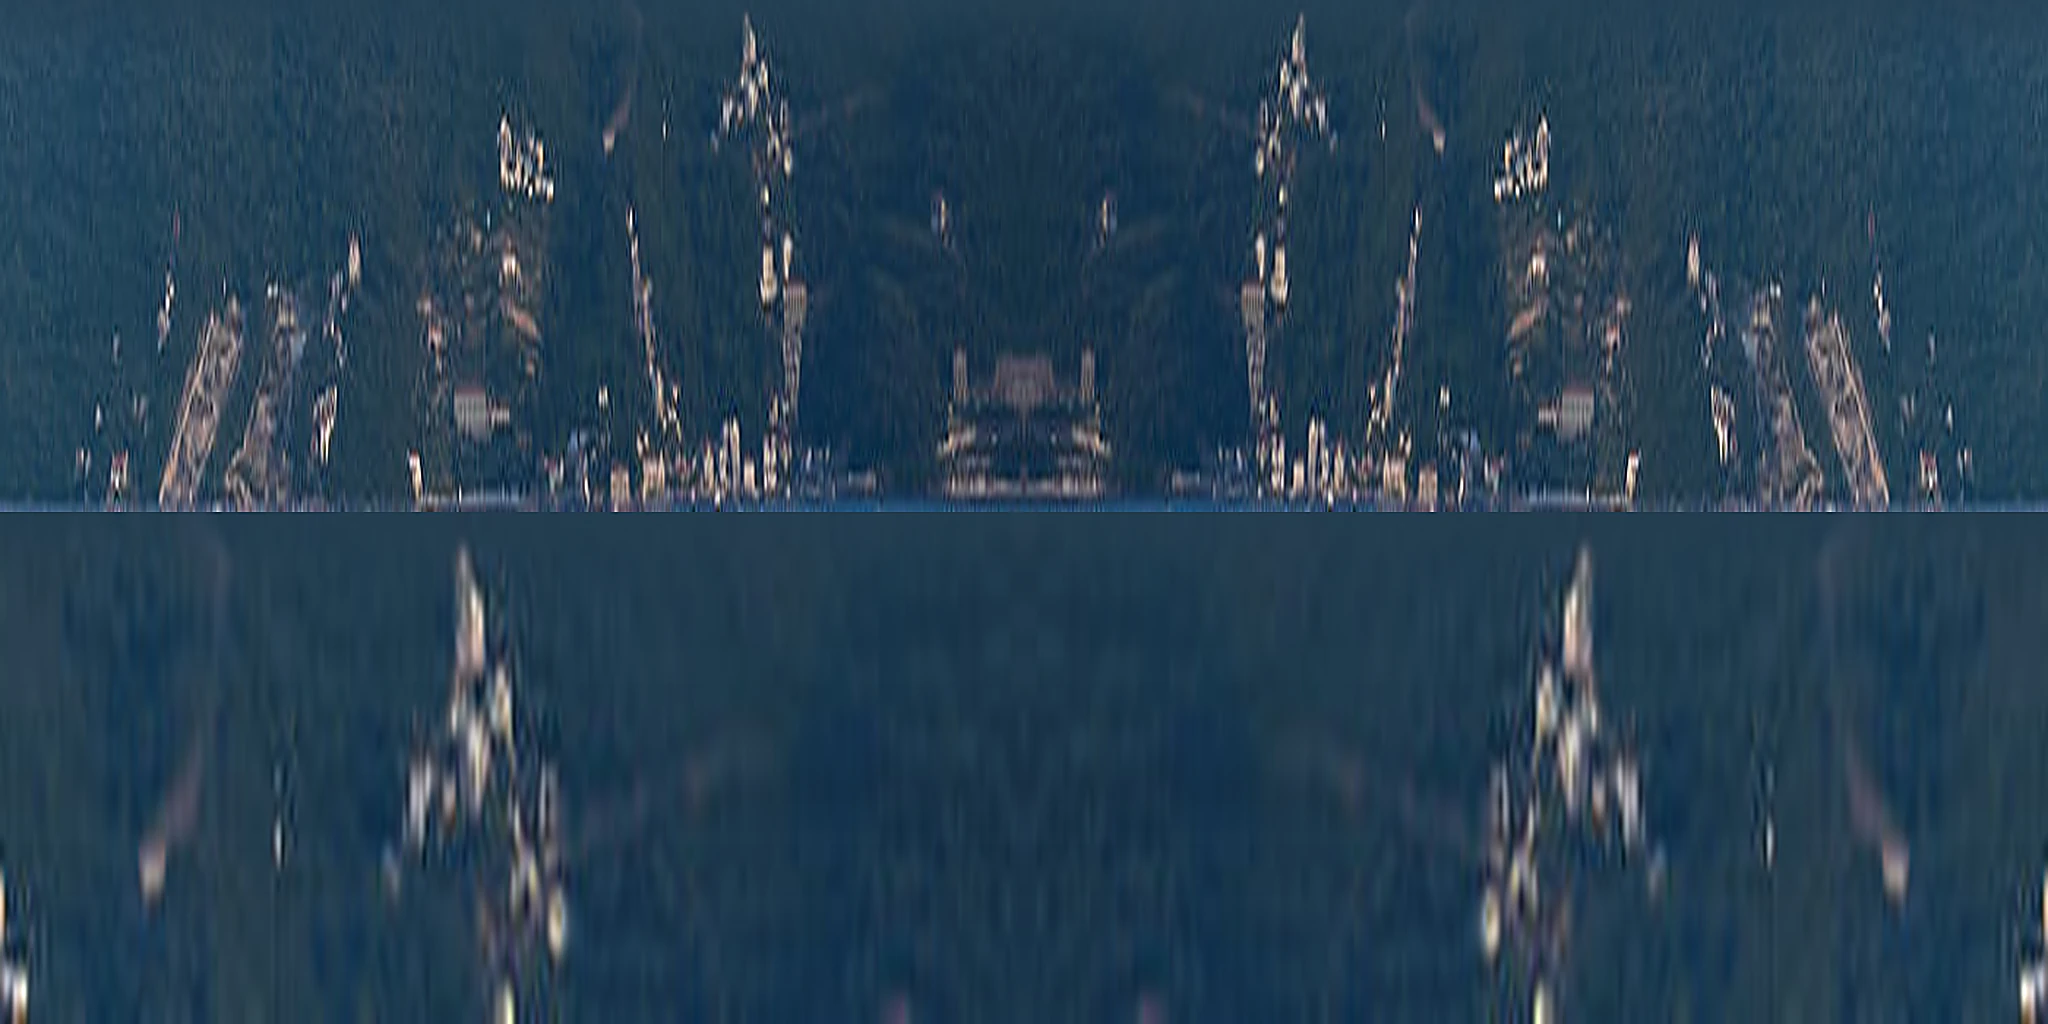
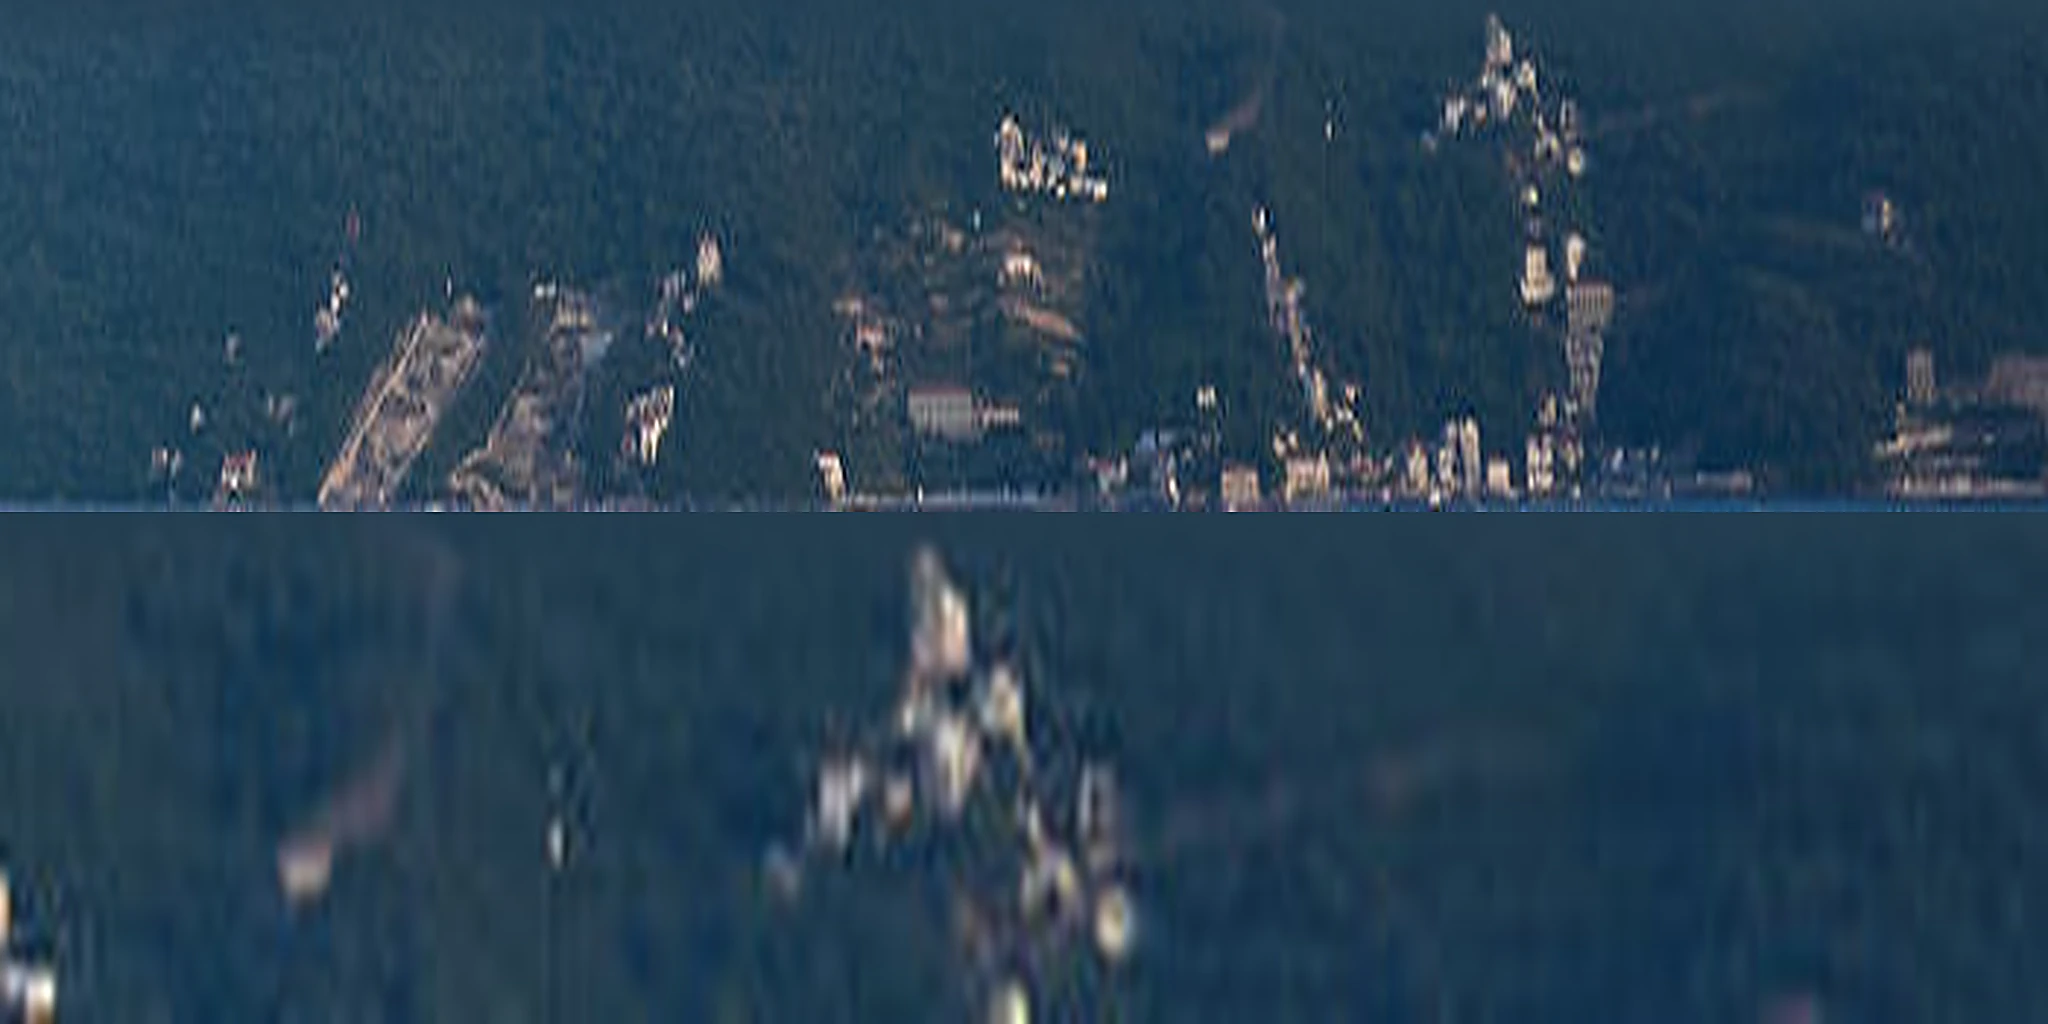
Make the sun read as the light source on every mountain
Two causes fought the sunrise: the atlas's mirror tiling reversed the
photo's baked micro-shading on half of every face, and the crest rim
glowed evenly along entire ridges, which reads as ambient light. The
atlas is now single-orientation (stretched, not mirrored), the rim only
burns on crest segments whose flank faces the sun, and the lit/shaded
flank contrast is deepened with stronger falloff away from the sun.

Claude-Session: https://claude.ai/code/session_01DD4Z6ChHy2Ko9BiueffdTn

diff --git a/assets/js/atmosphere.js b/assets/js/atmosphere.js
@@ -312,12 +312,18 @@
       // ridge's west flank (rising toward its peak) catches the sunrise
       // while the east flank falls into shade. flankSlope is the ridge
       // profile's derivative — positive where the crest climbs rightward.
-      float sunReach = 0.35 + 0.65 * exp(-screenUv.x * 1.1);
+      float sunReach = 0.22 + 0.78 * exp(-screenUv.x * 1.35);
       float flankLit = smoothstep(0.05, 0.8, flankSlope);
       float flankShade = smoothstep(0.05, 0.9, -flankSlope);
-      graded *= 1.0 + flankLit * mix(0.20, 0.34, depth) * sunReach;
-      graded *= 1.0 - flankShade * mix(0.12, 0.24, depth);
+      graded *= 1.0 + flankLit * mix(0.26, 0.42, depth) * sunReach;
+      graded *= 1.0 - flankShade * mix(0.24, 0.42, depth);
       graded += vec3(0.55, 0.40, 0.24) * flankLit * (0.06 + height * 0.11) * sunReach;
+
+      // The backlit signature of the sunrise references: a warm rim burns
+      // along crest segments that FACE the sun and dies on flat or shaded
+      // stretches — an even crest glow just reads as ambient light.
+      float crestRim = smoothstep(0.78, 0.985, height);
+      graded += vec3(1.15, 0.74, 0.38) * crestRim * sunReach * mix(0.26, 0.40, depth) * (0.10 + 0.90 * flankLit);
 
       // Where the ridge profile is only a sliver the full atlas column
       // compresses into jagged noise; dissolve ONLY those few pixels into

diff --git a/layouts/_default/baseof.html b/layouts/_default/baseof.html
@@ -60,7 +60,7 @@
   </head>
   <body class="builder-index page-{{ if .IsHome }}home{{ else }}inner{{ end }} kind-{{ .Kind }}{{ with .Section }} section-{{ . }}{{ end }}{{ with .File }} view-{{ .BaseFileName | urlize }}{{ end }}{{ with .Params.hero_flow }} has-system-hero{{ end }}{{ if and .IsSection (eq .Section "projects") }} has-work-atlas{{ end }}"{{ if .Site.Params.enableTwemoji }} onload='twemoji.parse(document.body)'{{ end }}>
     <a class="skip-link" href="#main-content">Skip to content</a>
-    <canvas class="ambient-canvas" data-atmosphere data-skyline="{{ "/images/herceg-novi-skyline.png" | relURL }}?v=4" data-day-scene="{{ "/images/herceg-novi-day.webp" | relURL }}" data-mountain-scene="{{ "/images/herceg-novi-mountains.webp" | relURL }}?v=16" aria-hidden="true"></canvas>
+    <canvas class="ambient-canvas" data-atmosphere data-skyline="{{ "/images/herceg-novi-skyline.png" | relURL }}?v=4" data-day-scene="{{ "/images/herceg-novi-day.webp" | relURL }}" data-mountain-scene="{{ "/images/herceg-novi-mountains.webp" | relURL }}?v=17" aria-hidden="true"></canvas>
     <main class="site-shell">
       {{ partial "header.html" . }}
       <div class="content" id="main-content">